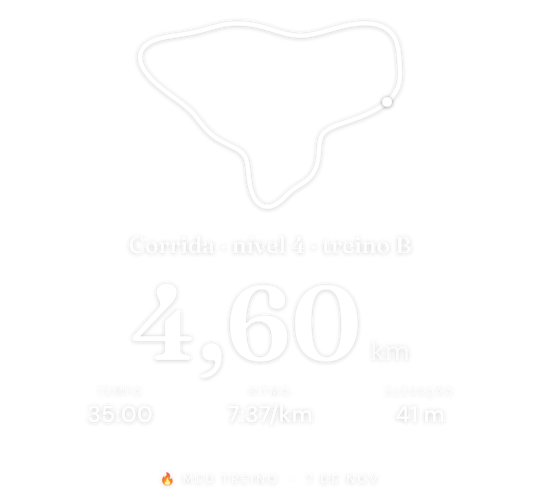
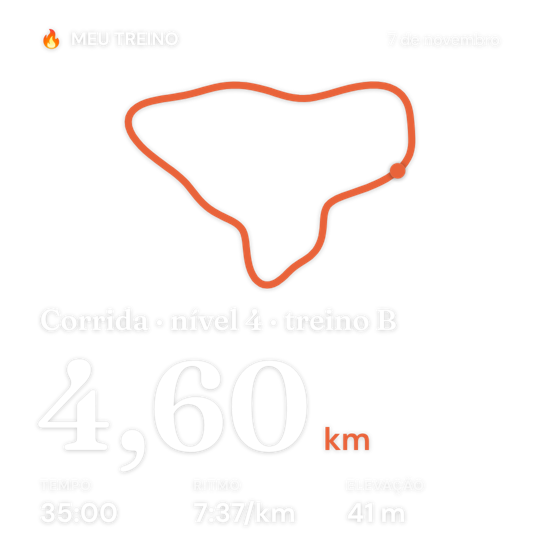
Sticker volta ao layout anterior, com cores limpas e sem contorno
Claude-Session: https://claude.ai/code/session_01ESR7NSNogttgArAGjMZm3F

diff --git a/index.html b/index.html
@@ -182,7 +182,7 @@ details.card[open] summary .chev{transform:rotate(180deg)}
 <div id="toast"></div>
 
 <script>
-const APP_VERSION='4.5 · 09/11 19h';
+const APP_VERSION='4.6 · 09/11 19h';
 /* ================== DADOS ================== */
 const GROUPS={gluteo:'Glúteo',quadriceps:'Quadríceps',posterior:'Posterior de coxa',panturrilha:'Panturrilha',costas:'Costas',peito:'Peito',ombro:'Ombro',biceps:'Bíceps',triceps:'Tríceps',abdomen:'Abdômen'};
 
@@ -2612,39 +2612,7 @@ function drawRoute(ctx,route,x,y,w,h,color,width){if(route.length<2||h<60)return
 function fitFont(x,txt,max,min,weight,fam,w){let fs=max;do{x.font=weight+' '+fs+'px '+fam;fs-=2;}while(x.measureText(txt).width>w&&fs>min);}
 const CARD_THEMES={verde:{bg:['#0F4C45','#08302B'],ink:'#FFFFFF',acc:'#E8633A',blob:'#E8633A'},laranja:{bg:['#E8633A','#B84A26'],ink:'#FFFFFF',acc:'#FFE1CF',blob:'#FFFFFF'},creme:{bg:['#FAF6EF','#EFE5D3'],ink:'#0F4C45',acc:'#C24E28',blob:'#0F4C45'}};
 const CARD_INKS={branco:'#FFFFFF',verde:'#0F4C45',laranja:'#E8633A'};
-/* Sticker transparente: centralizado, leve e sem moldura, pra colar no story */
-async function makeSticker(d,sel,tinta){
- try{await document.fonts.ready;}catch(e){}
- const has=k=>sel.includes(k)&&d.f[k];
- const bigK=(d.kind==='gym'?['tempo','exercicios']:['km','tempo']).find(k=>has(k)&&d.f[k].big);const big=bigK?d.f[bigK]:null;
- const order=d.fields?d.fields.map(f=>f[0]):['tempo','km','ritmo','elevacao','exercicios','series','volume','recordes','intensidade','sequencia'];
- const stats=order.filter(k=>has(k)&&k!==bigK&&d.f[k].v!=null&&!d.f[k].line).map(k=>d.f[k]).slice(0,6);
- const lines=(d.kind==='act'?order.filter(k=>has(k)&&d.f[k].line).map(k=>d.f[k].v.replace(/^🎯 /,'')):has(d.kind==='run'?'parciais':'lista')?d.lines:[]).slice(0,4);
- const route=has('percurso')&&d.route&&d.route.length>1?d.route:null;
- const SANS='"DM Sans", system-ui, sans-serif',SERIF='"Fraunces", Georgia, serif';
- const ink=CARD_INKS[tinta]||'#FFFFFF';const light=ink==='#FFFFFF';
- const W=1080,cx=W/2;const rows=[];for(let i=0;i<stats.length;i+=3)rows.push(stats.slice(i,i+3));
- const H=40+(route?420:0)+70+(big?230:0)+rows.length*118+(lines.length?30+lines.length*46:0)+110;
- const c=document.createElement('canvas');c.width=W;c.height=H;const x=c.getContext('2d');
- x.textAlign='center';x.textBaseline='alphabetic';
- const soft=on=>{x.shadowColor=on&&light?'rgba(0,0,0,.22)':'transparent';x.shadowBlur=on&&light?10:0;x.shadowOffsetY=on&&light?1:0;};
- soft(true);let y=40;
- if(route){drawRoute(x,route,cx-260,y,520,380,ink,9);y+=420;}
- x.fillStyle=ink;fitFont(x,d.title,46,28,600,SERIF,W-200);x.globalAlpha=.95;x.fillText(d.title,cx,y+46);x.globalAlpha=1;y+=70;
- if(big){x.font='600 210px '+SERIF;const bw=x.measureText(big.big).width;x.font='500 54px '+SANS;const uw=big.u?x.measureText(big.u).width+18:0;
-  const sx=cx-(bw+uw)/2;x.textAlign='left';x.font='600 210px '+SERIF;x.fillText(big.big,sx,y+190);if(big.u){x.font='500 54px '+SANS;x.globalAlpha=.85;x.fillText(big.u,sx+bw+18,y+190);x.globalAlpha=1;}x.textAlign='center';y+=230;}
- rows.forEach(r=>{const cw=Math.min(300,(W-120)/r.length);const x0=cx-cw*r.length/2;
-  r.forEach((st,i)=>{const sx=x0+cw*i+cw/2;x.globalAlpha=.72;x.font='600 22px '+SANS;x.save();try{x.letterSpacing='3px';}catch(e){}x.fillText(st.l.toUpperCase(),sx,y+30);x.restore();x.globalAlpha=1;fitFont(x,st.v,46,26,600,SANS,cw-24);x.fillText(st.v,sx,y+84);
-   if(i>0){soft(false);x.globalAlpha=.35;x.fillRect(x0+cw*i-1,y+14,2,76);x.globalAlpha=1;soft(true);}});
-  y+=118;});
- if(lines.length){y+=30;x.font='500 30px '+SANS;x.globalAlpha=.88;lines.forEach(l=>{let t=l;while(x.measureText(t).width>W-200&&t.length>8)t=t.slice(0,-2);if(t!==l)t=t.trim()+'…';x.fillText(t,cx,y+32);y+=46;});x.globalAlpha=1;}
- y+=40;soft(false);x.globalAlpha=.4;x.fillRect(cx-40,y,80,2);x.globalAlpha=1;soft(true);
- x.font='700 24px '+SANS;x.globalAlpha=.85;x.save();try{x.letterSpacing='5px';}catch(e){}
- const dt=has('data')?'  ·  '+new Date(d.date+'T12:00:00').toLocaleDateString('pt-BR',{day:'numeric',month:'short'}).replace('.','').toUpperCase():'';
- x.fillText('🔥 MEU TREINO'+dt,cx,y+48);x.restore();x.globalAlpha=1;
- x.shadowColor='transparent';return c;}
 async function makeCard(d,sel,style,photo,tema,tinta){
- if(style==='sticker')return makeSticker(d,sel,tinta);
  try{await document.fonts.ready;}catch(e){}
  const has=k=>sel.includes(k)&&d.f[k];
  const bigK=(d.kind==='gym'?['tempo','exercicios']:['km','tempo']).find(k=>has(k)&&d.f[k].big);const big=bigK?d.f[bigK]:null;
@@ -2656,13 +2624,13 @@ async function makeCard(d,sel,style,photo,tema,tinta){
  const contentH=rH+80+(big?250:0)+rows*130+(lines.length?20+lines.length*52:0);
  const W=1080,H=style==='sticker'?Math.max(420,60+110+contentH+30):1920;
  const c=document.createElement('canvas');c.width=W;c.height=H;const x=c.getContext('2d');const T=CARD_THEMES[tema]||CARD_THEMES.verde;
- const ink=style==='cor'?T.ink:(CARD_INKS[tinta]||'#FFFFFF');const acc=style==='cor'?T.acc:(ink==='#E8633A'?'#0F4C45':'#E8633A');const routeC=style==='cor'&&tema==='laranja'?'#FFFFFF':'#E8633A';
+ const ink=style==='cor'?T.ink:(CARD_INKS[tinta]||'#FFFFFF');const acc=style==='cor'?T.acc:(ink==='#FFFFFF'?'#E8633A':ink);const routeC=style==='cor'&&tema==='laranja'?'#FFFFFF':'#E8633A';
  if(style==='cor'){const g=x.createLinearGradient(0,0,W,H);g.addColorStop(0,T.bg[0]);g.addColorStop(1,T.bg[1]);x.fillStyle=g;x.fillRect(0,0,W,H);
   x.globalAlpha=tema==='creme'?.07:.1;x.fillStyle=T.blob;x.beginPath();x.arc(W*.85,H*.12,420,0,7);x.fill();x.globalAlpha=1;}
  if(style==='foto'&&photo){const r=Math.max(W/photo.width,H/photo.height);const pw=photo.width*r,ph=photo.height*r;x.drawImage(photo,(W-pw)/2,(H-ph)/2,pw,ph);
   const g=x.createLinearGradient(0,H-contentH-500,0,H);g.addColorStop(0,'rgba(0,0,0,0)');g.addColorStop(1,'rgba(0,0,0,.8)');x.fillStyle=g;x.fillRect(0,0,W,H);
   const t=x.createLinearGradient(0,0,0,260);t.addColorStop(0,'rgba(0,0,0,.45)');t.addColorStop(1,'rgba(0,0,0,0)');x.fillStyle=t;x.fillRect(0,0,W,260);}
- if(style!=='cor'){if(ink==='#FFFFFF'){x.shadowColor='rgba(0,0,0,.5)';x.shadowBlur=16;x.shadowOffsetY=3;}else{x.shadowColor='rgba(255,255,255,.65)';x.shadowBlur=12;x.shadowOffsetY=0;}}
+ if(style!=='cor'&&ink==='#FFFFFF'){x.shadowColor=style==='foto'?'rgba(0,0,0,.45)':'rgba(0,0,0,.25)';x.shadowBlur=style==='foto'?14:10;x.shadowOffsetY=1;}
  const top=style==='sticker'?60:110;
  x.fillStyle=ink;x.font='700 36px '+SANS;x.fillText('🔥  MEU TREINO',80,top+30);
  if(has('data')){x.font='500 32px '+SANS;x.globalAlpha=.85;x.textAlign='right';x.fillText(new Date(d.date+'T12:00:00').toLocaleDateString('pt-BR',{day:'numeric',month:'long'}),W-80,top+30);x.textAlign='left';x.globalAlpha=1;}
@@ -2673,8 +2641,8 @@ async function makeCard(d,sel,style,photo,tema,tinta){
   if(d.emoji){x.restore();const cx=W/2,cy=top+80+(y-top-80)/2,r=sz*0.62;x.fillStyle=T.blob;x.globalAlpha=tema==='creme'?.08:.12;x.beginPath();x.arc(cx,cy,r,0,7);x.fill();x.globalAlpha=1;x.font=Math.round(sz*0.62)+'px "Apple Color Emoji","Segoe UI Emoji","Noto Color Emoji",sans-serif';x.textAlign='center';x.textBaseline='middle';x.fillStyle='#fff';x.globalAlpha=1;x.fillText(d.emoji,cx,cy+sz*0.04);x.textAlign='left';x.textBaseline='alphabetic';x.fillStyle=ink;}
   else{x.stroke(new Path2D(d.kind==='gym'?'M6.5 6.5v11M17.5 6.5v11M3.5 9v6M20.5 9v6M6.5 12h11':'M3 12h4l3-8 4 16 3-8h4'));x.restore();}}}
  x.fillStyle=ink;fitFont(x,d.title,58,30,600,SERIF,W-160);x.fillText(d.title,80,y+50);y+=80;
- if(big){x.font='600 250px '+SERIF;const bw=x.measureText(big.big).width;x.fillText(big.big,72,y+210);x.font='600 64px '+SANS;x.fillStyle=acc;x.fillText(big.u,72+bw+24,y+210);x.fillStyle=ink;y+=250;}
- const cw=(W-160)/3;stats.forEach((s,i)=>{const sx=80+(i%3)*cw,sy=y+Math.floor(i/3)*130+40;x.globalAlpha=.75;x.font='700 28px '+SANS;x.fillText(s.l.toUpperCase(),sx,sy);x.globalAlpha=1;fitFont(x,s.v,54,30,700,SANS,cw-20);x.fillText(s.v,sx,sy+64);});
+ if(big){x.font='600 250px '+SERIF;const bw=x.measureText(big.big).width;x.fillText(big.big,72,y+210);x.font='600 64px '+SANS;x.fillStyle=acc;if(acc===ink)x.globalAlpha=.8;x.fillText(big.u,72+bw+24,y+210);x.globalAlpha=1;x.fillStyle=ink;y+=250;}
+ const cw=(W-160)/3;stats.forEach((s,i)=>{const sx=80+(i%3)*cw,sy=y+Math.floor(i/3)*130+40;x.globalAlpha=.7;x.font='700 27px '+SANS;x.save();try{x.letterSpacing='2px';}catch(e){}x.fillText(s.l.toUpperCase(),sx,sy);x.restore();x.globalAlpha=1;fitFont(x,s.v,54,30,700,SANS,cw-20);x.fillText(s.v,sx,sy+64);});
  y+=rows*130;
  if(lines.length){y+=20;x.font='500 36px '+SANS;const bul=d.kind==='act'?'':'•  ';lines.forEach(l=>{let t=l;while(x.measureText(bul+t).width>W-160&&t.length>8)t=t.slice(0,-2);if(t!==l)t=t.trim()+'…';x.globalAlpha=.92;x.fillText(bul+t,80,y+38);x.globalAlpha=1;y+=52;});}
  x.shadowColor='transparent';return c;}

diff --git a/sw.js b/sw.js
@@ -1,5 +1,5 @@
 /* Meu Treino — funciona offline e se atualiza sozinho quando há internet */
-const CACHE = 'meutreino-v32';
+const CACHE = 'meutreino-v33';
 const CORE = ['./', './index.html', './manifest.json', './icons/icon-180.png', './icons/icon-192.png', './icons/icon-512.png'];
 
 self.addEventListener('install', e => {
